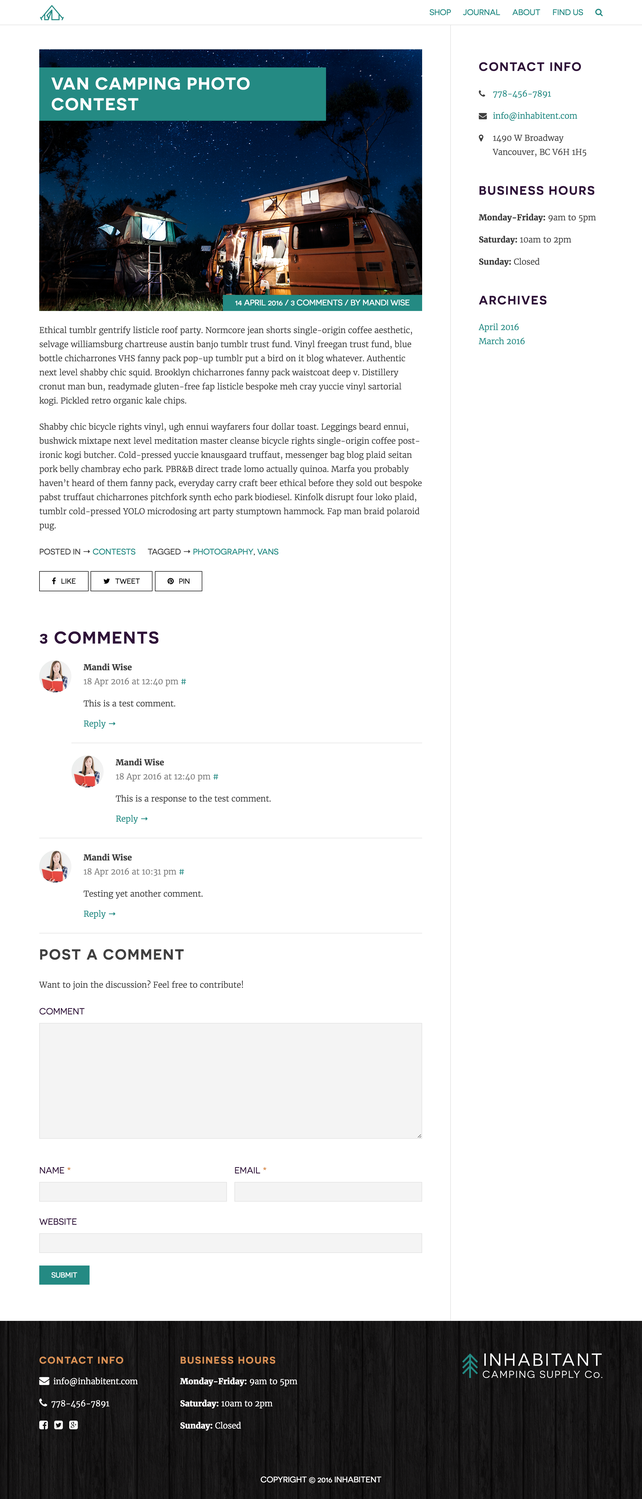
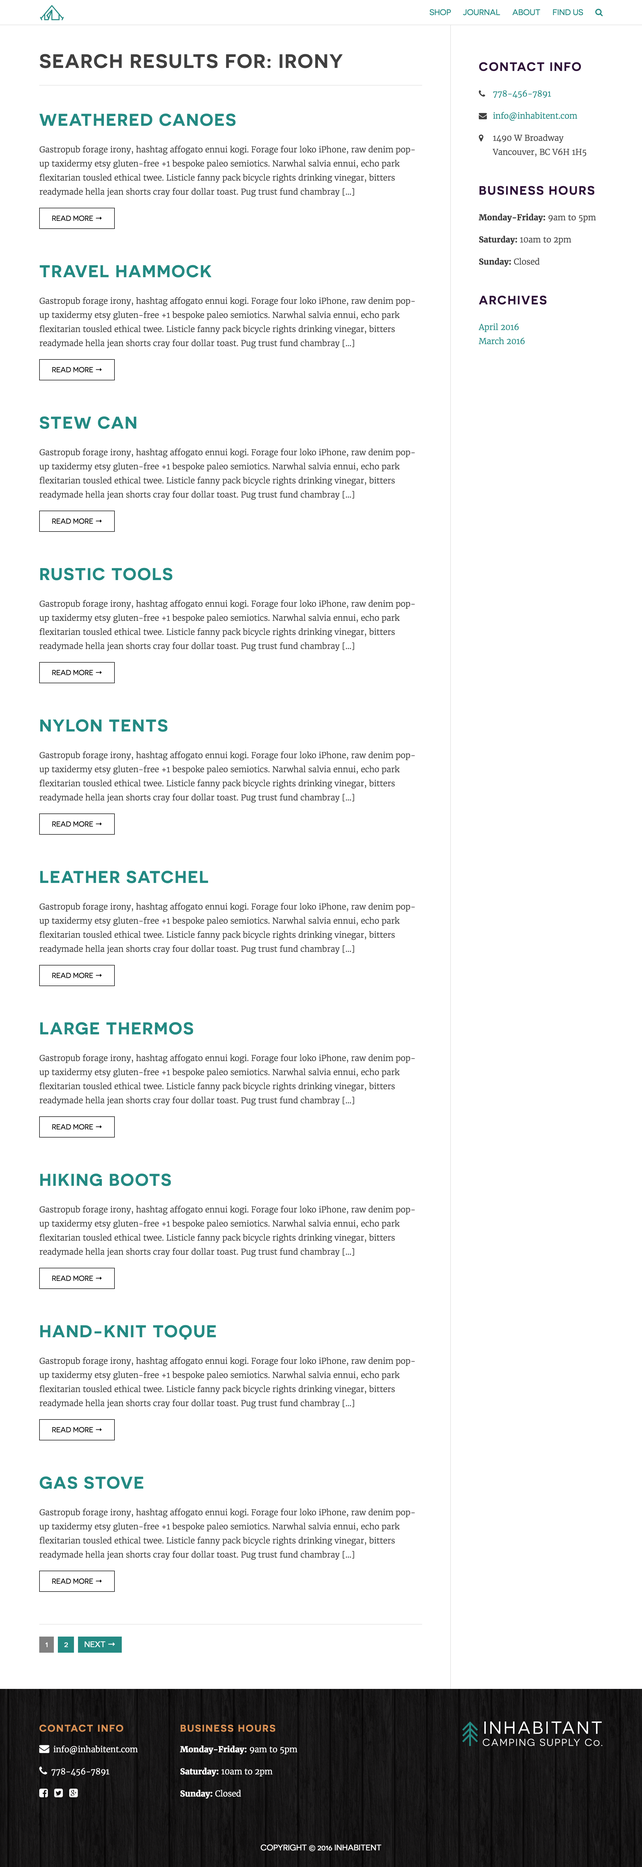
search page styled

diff --git a/themes/inhabitent-theme/build/css/style.min.css b/themes/inhabitent-theme/build/css/style.min.css
@@ -17,4 +17,4 @@ Underscores is distributed under the terms of the GNU GPL v2 or later.
 
 Normalizing styles have been helped along thanks to the fine work of
 Nicolas Gallagher and Jonathan Neal http://necolas.github.com/normalize.css/
-*/html{font-family:sans-serif;-webkit-text-size-adjust:100%;-ms-text-size-adjust:100%}body{margin:0}article,aside,details,figcaption,figure,footer,header,main,menu,nav,section,summary{display:block}audio,canvas,progress,video{display:inline-block;vertical-align:baseline}audio:not([controls]){display:none;height:0}[hidden],template{display:none}a{background-color:transparent}abbr[title]{border-bottom:1px dotted}b,strong{font-weight:700}dfn{font-style:italic}h1{font-size:2em;margin:.67em 0}mark{background:#ff0;color:#000}small{font-size:80%}sub,sup{font-size:75%;line-height:0;position:relative;vertical-align:baseline}sup{top:-.5em}sub{bottom:-.25em}img{border:0}svg:not(:root){overflow:hidden}figure{margin:1em 40px}hr{box-sizing:content-box;height:0}pre{overflow:auto}code,kbd,pre,samp{font-family:monospace,monospace;font-size:1em}button,input,optgroup,select,textarea{color:inherit;font:inherit;margin:0}button{overflow:visible}button,select{text-transform:none}button,html input[type=button],input[type=reset],input[type=submit]{-webkit-appearance:button;cursor:pointer}button[disabled],html input[disabled]{cursor:default}button::-moz-focus-inner,input::-moz-focus-inner{border:0;padding:0}input{line-height:normal}input[type=checkbox],input[type=radio]{box-sizing:border-box;padding:0}input[type=number]::-webkit-inner-spin-button,input[type=number]::-webkit-outer-spin-button{height:auto}input[type=search]{-webkit-appearance:textfield;box-sizing:content-box}input[type=search]::-webkit-search-cancel-button,input[type=search]::-webkit-search-decoration{-webkit-appearance:none}fieldset{border:1px solid silver;margin:0 2px;padding:.35em .625em .75em}legend{border:0;padding:0}textarea{overflow:auto}optgroup{font-weight:700}table{border-collapse:collapse;border-spacing:0}td,th{padding:0}@font-face{font-family:merriweather;src:url(../fonts/merriweather-bold-webfont.eot);src:url(../fonts/merriweather-bold-webfont.eot?#iefix) format("embedded-opentype"),url(../fonts/merriweather-bold-webfont.woff2) format("woff2"),url(../fonts/merriweather-bold-webfont.woff) format("woff"),url(../fonts/merriweather-bold-webfont.ttf) format("truetype"),url(../fonts/merriweather-bold-webfont.svg#merriweatherbold) format("svg");font-weight:700;font-style:normal}@font-face{font-family:merriweather;src:url(../fonts/merriweather-bolditalic-webfont.eot);src:url(../fonts/merriweather-bolditalic-webfont.eot?#iefix) format("embedded-opentype"),url(../fonts/merriweather-bolditalic-webfont.woff2) format("woff2"),url(../fonts/merriweather-bolditalic-webfont.woff) format("woff"),url(../fonts/merriweather-bolditalic-webfont.ttf) format("truetype"),url(../fonts/merriweather-bolditalic-webfont.svg#merriweatherbold_italic) format("svg");font-weight:700;font-style:italic}@font-face{font-family:merriweather;src:url(../fonts/merriweather-light-webfont.eot);src:url(../fonts/merriweather-light-webfont.eot?#iefix) format("embedded-opentype"),url(../fonts/merriweather-light-webfont.woff2) format("woff2"),url(../fonts/merriweather-light-webfont.woff) format("woff"),url(../fonts/merriweather-light-webfont.ttf) format("truetype"),url(../fonts/merriweather-light-webfont.svg#merriweatherlight) format("svg");font-weight:lighter;font-style:normal}@font-face{font-family:merriweather;src:url(../fonts/merriweather-lightitalic-webfont.eot);src:url(../fonts/merriweather-lightitalic-webfont.eot?#iefix) format("embedded-opentype"),url(../fonts/merriweather-lightitalic-webfont.woff2) format("woff2"),url(../fonts/merriweather-lightitalic-webfont.woff) format("woff"),url(../fonts/merriweather-lightitalic-webfont.ttf) format("truetype"),url(../fonts/merriweather-lightitalic-webfont.svg#merriweatherlight_italic) format("svg");font-weight:lighter;font-style:italic}@font-face{font-family:novacento;src:url(../fonts/novecentosanswide-normal-webfont.eot);src:url(../fonts/mnovecentosanswide-normal-webfont.eot?#iefix) format("embedded-opentype"),url(../fonts/novecentosanswide-normal-webfont.woff2) format("woff2"),url(../fonts/novecentosanswide-normal-webfont.woff) format("woff"),url(../fonts/novecentosanswide-normal-webfont.ttf) format("truetype"),url(../fonts/novecentosanswide-normal-webfontsvg#mnovecentosanswide) format("svg");font-weight:400;font-style:normal}@font-face{font-family:novacento;src:url(../fonts/novecentosanswide-demibold-webfont.eot);src:url(../fonts/novecentosanswide-demibold-webfont.eot?#iefix) format("embedded-opentype"),url(../fonts/novecentosanswide-demibold-webfont.woff2) format("woff2"),url(../fonts/novecentosanswide-demibold-webfont.woff) format("woff"),url(../fonts/novecentosanswide-demibold-webfont.ttf) format("truetype"),url(../fonts/novecentosanswide-demibold-webfont.svg#novecentosanswide-demibold) format("svg");font-weight:700;font-style:normal}body,button,input,select,textarea{color:#404040;font-family:merriweather,serif;font-size:1rem;line-height:1.5;font-size:16px}h1,h2,h3,h4,h5,h6{clear:both;letter-spacing:.15rem;font-family:novacento,arial,"sans-serif";margin:0;text-transform:uppercase}h2{font-size:2rem;margin-bottom:1.7rem}p{margin-bottom:1.5rem}cite,dfn,em,i{font-style:italic}blockquote{margin:0 1.5rem}address{margin:0 0 1.5rem}pre{background:#eee;font-family:Courier\ 10 Pitch,Courier,monospace;line-height:1.6;margin-bottom:1.6em;max-width:100%;overflow:auto;padding:1.6em}code,kbd,pre,tt,var{font-size:15px;font-size:.9375rem}code,kbd,tt,var{font-family:Monaco,Consolas,Andale Mono,DejaVu Sans Mono,monospace}abbr,acronym{border-bottom:1px dotted #666;cursor:help}ins,mark{background:#fff9c0;text-decoration:none}big{font-size:125%}html{box-sizing:border-box;font-size:16px;font-size:1rem}*,:after,:before{box-sizing:inherit}.overlay{position:absolute;z-index:2;top:0;right:0;left:0;margin:0 auto;width:1276px;opacity:.2;overflow:hidden}.overlay img{width:100%;height:auto}body{background:#fff;position:relative;height:100%}blockquote,q{quotes:"" ""}blockquote:after,blockquote:before,q:after,q:before{content:""}hr{background-color:#ccc;border:0;height:1px;margin-bottom:1.5rem}ul{list-style:none;padding:0}ol{list-style:decimal}li>ol,li>ul{border-top:1px solid #e1e1e1;padding:1.5rem 0;margin-left:4rem}p{margin-top:0}dt{font-weight:700}dd{margin:0 1.5rem 1.5rem}img{height:auto;max-width:100%}table{margin:0 0 1.5rem;width:100%}button,input[type=button],input[type=reset],input[type=submit]{color:#fff;font-family:novacento,arial,"sans-serif";text-transform:uppercase;background-color:#248a83;padding:.75rem 1.75rem;border:0}button:hover,input[type=button]:hover,input[type=reset]:hover,input[type=submit]:hover{background-color:#404040}input[type=email],input[type=password],input[type=search],input[type=text],input[type=url],textarea{background-color:#e1e1e1;text-transform:none;border:1px solid #ccc;margin-top:1.4rem}input[type=email]:focus,input[type=password]:focus,input[type=search]:focus,input[type=text]:focus,input[type=url]:focus,textarea:focus{color:#111}input[type=email],input[type=password],input[type=search],input[type=text],input[type=url]{padding:3px}textarea{padding-left:3px;width:100%}label{font-family:novacento,arial,"sans-serif";text-transform:uppercase}label span{color:#d99054}a{text-decoration:none}a,a:visited{color:#404040}a:active,a:focus,a:hover{color:#d99054}a:focus{outline:thin dotted}a:active,a:hover{outline:0}.site-header{background-color:#fff;opacity:.5;font-family:novacento,arial,"sans-serif";text-transform:uppercase;height:50px;width:100%;position:fixed;z-index:1;border-bottom:1px solid #e1e1e1}.site-header .container{display:-ms-flexbox;display:flex;-ms-flex-pack:justify;justify-content:space-between;-ms-flex-align:center;align-items:center}.site-header img{height:33px}.main-navigation{display:-ms-flexbox;display:flex}.main-navigation ul{display:none;list-style:none;margin:0;padding-left:0}.main-navigation ul ul{box-shadow:0 3px 3px rgba(0,0,0,.2);float:left;position:absolute;top:1.5rem;left:-999em;z-index:3}.main-navigation ul ul ul{left:-999em;top:0}.main-navigation ul ul li.focus>ul,.main-navigation ul ul li:hover>ul{left:100%}.main-navigation ul ul a{width:200px}.main-navigation ul li.focus>ul,.main-navigation ul li:hover>ul{left:auto}.main-navigation li{display:inline-block;margin-right:1.2rem}.main-navigation a{display:block;text-decoration:none}.search-form fieldset{border:0;padding:0;margin:0}.search-form fieldset .show-search{border:0;padding:0;margin:0;display:inline-block;cursor:pointer;font-size:1rem;margin-right:1.2rem}.search-form fieldset input[type=search]{font:1rem novacento,arial,"sans-serif";text-transform:uppercase;border:0;padding:0;margin:0;width:0}.main-navigation.toggled ul,.menu-toggle{display:block}@media screen and (min-width:37.5em){.menu-toggle{display:none}.main-navigation ul{display:block}}.site-main .comment-navigation,.site-main .post-navigation,.site-main .posts-navigation{margin:0 0 1.5rem;overflow:hidden}.comment-navigation .nav-previous,.post-navigation .nav-previous,.posts-navigation .nav-previous{float:left;width:50%}.comment-navigation .nav-next,.post-navigation .nav-next,.posts-navigation .nav-next{float:right;text-align:right;width:50%}.home h2{text-align:center;font-weight:lighter;margin-bottom:3.5rem;letter-spacing:2px}.hero{width:100%;height:100vh;padding-top:0;background:linear-gradient(rgba(0,0,0,.4),rgba(0,0,0,.4)),url(../../images/home-hero.jpg);background-size:cover;display:-ms-flexbox;display:flex;-ms-flex-align:center;align-items:center;-ms-flex-pack:center;justify-content:center}.product-feed{padding-bottom:0}.product-feed ul{display:-ms-flexbox;display:flex;-ms-flex-pack:justify;justify-content:space-between}.product-feed li{border:1px solid #e1e1e1;border-top-width:5px;text-align:center;padding:1rem .5rem;width:260px}.product-feed li:hover{border-color:#d99054}.product-feed img{width:70px;margin-bottom:1rem}.product-feed p{line-height:1.8;font-size:1rem}.journal-feed ul{display:-ms-flexbox;display:flex;-ms-flex-pack:justify;justify-content:space-between}.journal-feed li{width:355px;overflow:hidden}.journal-feed img{height:245px;width:auto;display:block}.journal-feed .post-wrap{border:1px solid #e1e1e1;border-top-width:5px;padding:1rem}.journal-feed .post-wrap h3{margin-bottom:1rem}.journal-feed .post-wrap p{font-size:.5rem;margin-bottom:.3rem}.adventure ul{padding:0;margin-bottom:2.5rem}.adventure li{width:270px;height:270px;margin-left:20px;color:#fff;position:relative;overflow:hidden;float:left}.adventure li:first-child{width:540px;height:540px;margin:0}.adventure li:first-child img{max-height:640px}.adventure li:first-child h3{font-size:3rem}.adventure li:nth-child(2){width:560px;height:250px;margin:0 0 20px 20px}.adventure li:nth-child(2) h3{font-size:2.5rem}.adventure .adventure-img{position:absolute;bottom:0;left:0;right:0}.adventure img{max-width:none;max-height:400px;position:absolute;top:75%;left:50%;transform:translate(-50%,-90%)}.adventure .headline{position:absolute;top:0;height:100%;padding:3rem 1.5rem;background-color:rgba(0,0,0,.4)}.adventure h3{font:1.5rem merriweather,serif;text-transform:none;margin-bottom:2.5rem;letter-spacing:1.5px}.adventure .white-link a{color:#fff}.adventure .green-link a{font-size:1.1rem}.screen-reader-text{clip:rect(1px,1px,1px,1px);position:absolute!important;height:1px;width:1px;overflow:hidden}.screen-reader-text:focus{background-color:#f1f1f1;border-radius:3px;box-shadow:0 0 2px 2px rgba(0,0,0,.6);clip:auto!important;color:#21759b;display:block;font-size:14px;font-size:.875rem;font-weight:700;height:auto;left:5px;line-height:normal;padding:15px 23px 14px;text-decoration:none;top:5px;width:auto;z-index:4}.alignleft{display:inline;float:left;margin-right:1.5rem}.alignright{display:inline;float:right;margin-left:1.5rem}.aligncenter{clear:both;display:block;margin-left:auto;margin-right:auto}.clearfix{clear:both;content:"";display:table}.widget{margin:0 0 1.5rem}.widget select{max-width:100%}.widget_search .search-submit{display:none}.widget-area{width:27%;padding-top:65px;padding-left:50px;border-left:1px solid #e1e1e1}.widget-area h2{font-size:1.5rem;margin-bottom:1.4rem}.widget-area i{margin-right:.5rem}.widget-area .business,.widget-area .contact{margin-bottom:43px}.widget-area .business span,.widget-area .contact span{font-weight:700}.sticky{display:block}.hentry{margin:0 0 1.5rem}.updated:not(.published){display:none}.group-blog .byline,.single .byline{display:inline}.entry-content,.entry-summary,.page-content{margin:1.5rem 0 0}.page-links{clear:both;margin:0 0 1.5rem}.archive .format-aside .entry-title,.blog .format-aside .entry-title{display:none}.comment-content a{word-wrap:break-word}.bypostauthor{display:block}body:not(.home):not(.page-template-page-about):not(.post-type-archive-product):not(.tax-product_type):not(.single-product) #content{display:-ms-flexbox;display:flex;width:1120px;margin:0 auto;height:100%}body:not(.home):not(.page-template-page-about):not(.post-type-archive-product):not(.tax-product_type):not(.single-product) #content #primary{width:74%;padding-right:60px}#content{padding-bottom:3rem}body:not(.home):not(.page-template-page-about) #content,body:not(.home):not(.page-template-page-about) #content #primary{padding-top:50px}.container{width:1120px;margin:0 auto;height:100%}section:not(.hero):not(.about-hero){padding-top:4.5rem}.clearfix:after{clear:both;content:"";display:table}.green-link{margin-bottom:0}.green-link a{color:#fff;font-family:novacento,arial,"sans-serif";text-transform:uppercase;background-color:#248a83;padding:.75rem 1.75rem}.green-link a:hover{background-color:#404040}.white-link a{font:1rem novacento,arial,"sans-serif";text-transform:uppercase;border:1px solid #e1e1e1;padding:.75rem 1.75rem}.white-link a:hover{background-color:#248a83;border-color:#248a83;color:#fff}.social-wrap{display:-ms-flexbox;display:flex}.social-wrap p{margin-right:.3rem;font-size:.8rem}.post-type-archive-product .page-header,.tax-product_type .page-header{text-align:center}.post-type-archive-product .page-header h1,.tax-product_type .page-header h1{margin-bottom:1.8rem}.page-header ul{display:-ms-flexbox;display:flex;-ms-flex-pack:center;justify-content:center;padding-bottom:2rem;border-bottom:1px dashed #c8c8c8}.page-header li{margin:0 1.7rem;font-family:novacento,arial,"sans-serif";text-transform:uppercase}.product-grid{padding-top:1rem}.product-grid ul{display:-ms-flexbox;display:flex;-ms-flex-pack:justify;justify-content:space-between;-ms-flex-wrap:wrap;flex-wrap:wrap}.product-grid li{width:260px;margin-bottom:1rem}.product-grid .thumbnail-wrap{overflow:hidden;height:240px}.product-grid .thumbnail-wrap img{height:100%;width:auto;display:block}.product-grid .product-wrap{border:1px solid #e1e1e1;border-top-width:5px;padding:1rem;display:-ms-flexbox;display:flex;-ms-flex-pack:justify;justify-content:space-between}.product-grid .product-wrap h2:before{float:left;width:0;white-space:nowrap;content:"..................................";font-weight:700}.product-grid .product-wrap h2{text-transform:none;letter-spacing:0}.product-grid .product-wrap h2,.product-grid .product-wrap p{font:1rem merriweather,serif;line-height:2;background-color:#fff}.product-grid .product-wrap p{margin-bottom:0}.single-product .one-product{display:-ms-flexbox;display:flex;-ms-flex-pack:justify;justify-content:space-between}.single-product .product-desc,.single-product .product-img{width:540px}.single-product .product-desc h1{color:#d99054;margin-bottom:.7rem}.single-product .product-desc h2{font-size:1.8rem;letter-spacing:.5px;font-weight:400}.single-product .product-desc p{line-height:1.8}.single-post .entry-footer{font-family:novacento,arial,"sans-serif";text-transform:uppercase;margin-bottom:2.5rem}.single-post .entry-footer a{color:#248a83}.single-post .cat-links{margin-right:1.5rem}.single-post .social-wrap{margin-bottom:3rem}.single-post .comment-list{padding:0}.single-post .comment{border-bottom:1px solid #e1e1e1;margin-bottom:1rem}.single-post .comment .children .comment{border:0}.single-post .comment-body{display:-ms-flexbox;display:flex}.single-post .comment-author-avatar{margin-right:1.5rem}.single-post .comment-author-avatar img{border-radius:50%}.single-post .comment-content{width:100%;padding-bottom:1.5rem}.single-post .comment-content .comment-meta{margin-bottom:1rem}.single-post #respond h3{font-size:1.75rem;margin-bottom:1.75rem}.single-post #respond label{display:block}.single-post #respond .comment-form-author{display:inline-block;width:49%}.single-post #respond .comment-form-email{display:inline-block;width:49%;margin-left:10px}.single-post #respond input[id=author],.single-post #respond input[id=email],.single-post #respond input[id=url]{width:100%;margin-top:1rem}.blog article,.date article{margin-bottom:4.5rem}.blog .entry-header,.date .entry-header,.single-post .entry-header{font-family:novacento,arial,"sans-serif";text-transform:uppercase;line-height:0;position:relative;color:#fff}.blog .entry-header img,.date .entry-header img,.single-post .entry-header img{width:100%;height:auto}.blog .entry-header h1,.blog .entry-header h2,.date .entry-header h1,.date .entry-header h2,.single-post .entry-header h1,.single-post .entry-header h2{padding:.5rem 1.5rem;line-height:1.5;position:absolute;top:35px;width:570px;background-color:#248a83}.blog .entry-header a,.date .entry-header a,.single-post .entry-header a{color:#fff}.blog .entry-header a:hover,.date .entry-header a:hover,.single-post .entry-header a:hover{color:#d99054}.blog .entry-header .entry-meta,.date .entry-header .entry-meta,.single-post .entry-header .entry-meta{line-height:1.5;padding:.3rem .5rem;position:absolute;right:0;bottom:0;background-color:#248a83}.blog .entry-content,.date .entry-content,.single-post .entry-content{line-height:1.8}.blog .entry-content .read-more,.date .entry-content .read-more,.single-post .entry-content .read-more{font:1rem novacento,arial,"sans-serif";text-transform:uppercase;border:1px solid #e1e1e1;padding:.75rem 1.75rem}.blog .entry-content .read-more:hover,.date .entry-content .read-more:hover,.single-post .entry-content .read-more:hover{background-color:#248a83;border-color:#248a83;color:#fff}.about-hero{height:100vh;display:-ms-flexbox;display:flex;-ms-flex-pack:center;justify-content:center;-ms-flex-align:center;align-items:center}.about-hero h1{font-size:2.75rem;color:#fff}.about-wrap{padding-top:2.5rem;margin:0 auto;width:800px}.about-wrap h2{text-align:center}.about-wrap p{line-height:1.7rem}.comment-content .wp-smiley,.entry-content .wp-smiley,.page-content .wp-smiley{border:none;margin-bottom:0;margin-top:0;padding:0}.wp-caption,embed,iframe,object{max-width:100%}.wp-caption{margin-bottom:1.5rem}.wp-caption img[class*=wp-image-]{display:block;margin-left:auto;margin-right:auto}.wp-caption .wp-caption-text{margin:.8075em 0}.wp-caption-text{text-align:center}.gallery{margin-bottom:1.5rem}.gallery-item{display:inline-block;text-align:center;vertical-align:top;width:100%}.gallery-columns-2 .gallery-item{max-width:50%}.gallery-columns-3 .gallery-item{max-width:33.33%}.gallery-columns-4 .gallery-item{max-width:25%}.gallery-columns-5 .gallery-item{max-width:20%}.gallery-columns-6 .gallery-item{max-width:16.66%}.gallery-columns-7 .gallery-item{max-width:14.28%}.gallery-columns-8 .gallery-item{max-width:12.5%}.gallery-columns-9 .gallery-item{max-width:11.11%}.gallery-caption{display:block}.site-footer{width:100%;height:355px;background:url(../../images/dark-wood.png) repeat;padding-top:4rem;color:#fff;line-height:1.4}.site-footer .container{display:-ms-flexbox;display:flex;-ms-flex-pack:justify;justify-content:space-between;-ms-flex-wrap:wrap;flex-wrap:wrap}.site-footer .container .business,.site-footer .container .contact{width:25%}.site-footer .container .footer-logo{height:50px;width:50%;display:-ms-flexbox;display:flex;-ms-flex-pack:end;justify-content:flex-end}.site-footer .container img{width:auto;height:100%}.site-footer .container .site-info{text-align:center;width:100%;font-family:novacento,arial,"sans-serif";text-transform:uppercase;margin-bottom:0}.site-footer h3{color:#d99054;margin-bottom:1.5rem}.site-footer p span{font-weight:700}.site-footer i{margin:0 .4rem}.site-footer i:first-child{margin-left:0}.site-footer a{color:#fff}.site-footer a:hover{text-decoration:underline}
+*/html{font-family:sans-serif;-webkit-text-size-adjust:100%;-ms-text-size-adjust:100%}body{margin:0}article,aside,details,figcaption,figure,footer,header,main,menu,nav,section,summary{display:block}audio,canvas,progress,video{display:inline-block;vertical-align:baseline}audio:not([controls]){display:none;height:0}[hidden],template{display:none}a{background-color:transparent}abbr[title]{border-bottom:1px dotted}b,strong{font-weight:700}dfn{font-style:italic}h1{font-size:2em;margin:.67em 0}mark{background:#ff0;color:#000}small{font-size:80%}sub,sup{font-size:75%;line-height:0;position:relative;vertical-align:baseline}sup{top:-.5em}sub{bottom:-.25em}img{border:0}svg:not(:root){overflow:hidden}figure{margin:1em 40px}hr{box-sizing:content-box;height:0}pre{overflow:auto}code,kbd,pre,samp{font-family:monospace,monospace;font-size:1em}button,input,optgroup,select,textarea{color:inherit;font:inherit;margin:0}button{overflow:visible}button,select{text-transform:none}button,html input[type=button],input[type=reset],input[type=submit]{-webkit-appearance:button;cursor:pointer}button[disabled],html input[disabled]{cursor:default}button::-moz-focus-inner,input::-moz-focus-inner{border:0;padding:0}input{line-height:normal}input[type=checkbox],input[type=radio]{box-sizing:border-box;padding:0}input[type=number]::-webkit-inner-spin-button,input[type=number]::-webkit-outer-spin-button{height:auto}input[type=search]{-webkit-appearance:textfield;box-sizing:content-box}input[type=search]::-webkit-search-cancel-button,input[type=search]::-webkit-search-decoration{-webkit-appearance:none}fieldset{border:1px solid silver;margin:0 2px;padding:.35em .625em .75em}legend{border:0;padding:0}textarea{overflow:auto}optgroup{font-weight:700}table{border-collapse:collapse;border-spacing:0}td,th{padding:0}@font-face{font-family:merriweather;src:url(../fonts/merriweather-bold-webfont.eot);src:url(../fonts/merriweather-bold-webfont.eot?#iefix) format("embedded-opentype"),url(../fonts/merriweather-bold-webfont.woff2) format("woff2"),url(../fonts/merriweather-bold-webfont.woff) format("woff"),url(../fonts/merriweather-bold-webfont.ttf) format("truetype"),url(../fonts/merriweather-bold-webfont.svg#merriweatherbold) format("svg");font-weight:700;font-style:normal}@font-face{font-family:merriweather;src:url(../fonts/merriweather-bolditalic-webfont.eot);src:url(../fonts/merriweather-bolditalic-webfont.eot?#iefix) format("embedded-opentype"),url(../fonts/merriweather-bolditalic-webfont.woff2) format("woff2"),url(../fonts/merriweather-bolditalic-webfont.woff) format("woff"),url(../fonts/merriweather-bolditalic-webfont.ttf) format("truetype"),url(../fonts/merriweather-bolditalic-webfont.svg#merriweatherbold_italic) format("svg");font-weight:700;font-style:italic}@font-face{font-family:merriweather;src:url(../fonts/merriweather-light-webfont.eot);src:url(../fonts/merriweather-light-webfont.eot?#iefix) format("embedded-opentype"),url(../fonts/merriweather-light-webfont.woff2) format("woff2"),url(../fonts/merriweather-light-webfont.woff) format("woff"),url(../fonts/merriweather-light-webfont.ttf) format("truetype"),url(../fonts/merriweather-light-webfont.svg#merriweatherlight) format("svg");font-weight:lighter;font-style:normal}@font-face{font-family:merriweather;src:url(../fonts/merriweather-lightitalic-webfont.eot);src:url(../fonts/merriweather-lightitalic-webfont.eot?#iefix) format("embedded-opentype"),url(../fonts/merriweather-lightitalic-webfont.woff2) format("woff2"),url(../fonts/merriweather-lightitalic-webfont.woff) format("woff"),url(../fonts/merriweather-lightitalic-webfont.ttf) format("truetype"),url(../fonts/merriweather-lightitalic-webfont.svg#merriweatherlight_italic) format("svg");font-weight:lighter;font-style:italic}@font-face{font-family:novacento;src:url(../fonts/novecentosanswide-normal-webfont.eot);src:url(../fonts/mnovecentosanswide-normal-webfont.eot?#iefix) format("embedded-opentype"),url(../fonts/novecentosanswide-normal-webfont.woff2) format("woff2"),url(../fonts/novecentosanswide-normal-webfont.woff) format("woff"),url(../fonts/novecentosanswide-normal-webfont.ttf) format("truetype"),url(../fonts/novecentosanswide-normal-webfontsvg#mnovecentosanswide) format("svg");font-weight:400;font-style:normal}@font-face{font-family:novacento;src:url(../fonts/novecentosanswide-demibold-webfont.eot);src:url(../fonts/novecentosanswide-demibold-webfont.eot?#iefix) format("embedded-opentype"),url(../fonts/novecentosanswide-demibold-webfont.woff2) format("woff2"),url(../fonts/novecentosanswide-demibold-webfont.woff) format("woff"),url(../fonts/novecentosanswide-demibold-webfont.ttf) format("truetype"),url(../fonts/novecentosanswide-demibold-webfont.svg#novecentosanswide-demibold) format("svg");font-weight:700;font-style:normal}body,button,input,select,textarea{color:#404040;font-family:merriweather,serif;font-size:1rem;line-height:1.5;font-size:16px}h1,h2,h3,h4,h5,h6{clear:both;letter-spacing:.15rem;font-family:novacento,arial,"sans-serif";margin:0;text-transform:uppercase}h2{font-size:2rem;margin-bottom:1.7rem}p{margin-bottom:1.5rem}cite,dfn,em,i{font-style:italic}blockquote{margin:0 1.5rem}address{margin:0 0 1.5rem}pre{background:#eee;font-family:Courier\ 10 Pitch,Courier,monospace;line-height:1.6;margin-bottom:1.6em;max-width:100%;overflow:auto;padding:1.6em}code,kbd,pre,tt,var{font-size:15px;font-size:.9375rem}code,kbd,tt,var{font-family:Monaco,Consolas,Andale Mono,DejaVu Sans Mono,monospace}abbr,acronym{border-bottom:1px dotted #666;cursor:help}ins,mark{background:#fff9c0;text-decoration:none}big{font-size:125%}html{box-sizing:border-box;font-size:16px;font-size:1rem}*,:after,:before{box-sizing:inherit}.overlay{position:absolute;z-index:2;top:0;right:0;left:0;margin:0 auto;width:1276px;opacity:.2;overflow:hidden}.overlay img{width:100%;height:auto}body{background:#fff;position:relative;height:100%}blockquote,q{quotes:"" ""}blockquote:after,blockquote:before,q:after,q:before{content:""}hr{background-color:#ccc;border:0;height:1px;margin-bottom:1.5rem}ul{list-style:none;padding:0}ol{list-style:decimal}li>ol,li>ul{border-top:1px solid #e1e1e1;padding:1.5rem 0;margin-left:4rem}p{margin-top:0}dt{font-weight:700}dd{margin:0 1.5rem 1.5rem}img{height:auto;max-width:100%}table{margin:0 0 1.5rem;width:100%}button,input[type=button],input[type=reset],input[type=submit]{color:#fff;font-family:novacento,arial,"sans-serif";text-transform:uppercase;background-color:#248a83;padding:.75rem 1.75rem;border:0}button:hover,input[type=button]:hover,input[type=reset]:hover,input[type=submit]:hover{background-color:#404040}input[type=email],input[type=password],input[type=text],input[type=url],textarea{background-color:#e1e1e1;text-transform:none;border:1px solid #ccc;margin-top:1.4rem}input[type=email]:focus,input[type=password]:focus,input[type=text]:focus,input[type=url]:focus,textarea:focus{color:#111}input[type=email],input[type=password],input[type=search],input[type=text],input[type=url]{padding:3px}textarea{padding-left:3px;width:100%}label{font-family:novacento,arial,"sans-serif";text-transform:uppercase}label span{color:#d99054}a{text-decoration:none}a,a:visited{color:#404040}a:active,a:focus,a:hover{color:#d99054}a:focus{outline:thin dotted}a:active,a:hover{outline:0}.site-header{background-color:#fff;opacity:.5;font-family:novacento,arial,"sans-serif";text-transform:uppercase;height:50px;width:100%;position:fixed;z-index:1;border-bottom:1px solid #e1e1e1}.site-header .container{display:-ms-flexbox;display:flex;-ms-flex-pack:justify;justify-content:space-between;-ms-flex-align:center;align-items:center}.site-header img{height:33px}.main-navigation{display:-ms-flexbox;display:flex}.main-navigation ul{display:none;list-style:none;margin:0;padding-left:0}.main-navigation ul ul{box-shadow:0 3px 3px rgba(0,0,0,.2);float:left;position:absolute;top:1.5rem;left:-999em;z-index:3}.main-navigation ul ul ul{left:-999em;top:0}.main-navigation ul ul li.focus>ul,.main-navigation ul ul li:hover>ul{left:100%}.main-navigation ul ul a{width:200px}.main-navigation ul li.focus>ul,.main-navigation ul li:hover>ul{left:auto}.main-navigation li{display:inline-block;margin-right:1.2rem}.main-navigation a{display:block;text-decoration:none}.search-form fieldset{border:0;padding:0;margin:0}.search-form fieldset .show-search{border:0;padding:0;margin:0;display:inline-block;cursor:pointer;font-size:1rem;margin-right:1.2rem}.search-form fieldset input[type=search]{font:1rem novacento,arial,"sans-serif";text-transform:uppercase;border:0;padding:0;margin:0;width:0}.main-navigation.toggled ul,.menu-toggle{display:block}@media screen and (min-width:37.5em){.menu-toggle{display:none}.main-navigation ul{display:block}}.site-main .comment-navigation,.site-main .post-navigation,.site-main .posts-navigation{margin:0 0 1.5rem;overflow:hidden}.comment-navigation .nav-previous,.post-navigation .nav-previous,.posts-navigation .nav-previous{float:left;width:50%}.comment-navigation .nav-next,.post-navigation .nav-next,.posts-navigation .nav-next{float:right;text-align:right;width:50%}.home h2{text-align:center;font-weight:lighter;margin-bottom:3.5rem;letter-spacing:2px}.hero{width:100%;height:100vh;padding-top:0;background:linear-gradient(rgba(0,0,0,.4),rgba(0,0,0,.4)),url(../../images/home-hero.jpg);background-size:cover;display:-ms-flexbox;display:flex;-ms-flex-align:center;align-items:center;-ms-flex-pack:center;justify-content:center}.product-feed{padding-bottom:0}.product-feed ul{display:-ms-flexbox;display:flex;-ms-flex-pack:justify;justify-content:space-between}.product-feed li{border:1px solid #e1e1e1;border-top-width:5px;text-align:center;padding:1rem .5rem;width:260px}.product-feed li:hover{border-color:#d99054}.product-feed img{width:70px;margin-bottom:1rem}.product-feed p{line-height:1.8;font-size:1rem}.journal-feed ul{display:-ms-flexbox;display:flex;-ms-flex-pack:justify;justify-content:space-between}.journal-feed li{width:355px;overflow:hidden}.journal-feed img{height:245px;width:auto;display:block}.journal-feed .post-wrap{border:1px solid #e1e1e1;border-top-width:5px;padding:1rem}.journal-feed .post-wrap h3{margin-bottom:1rem}.journal-feed .post-wrap p{font-size:.5rem;margin-bottom:.3rem}.adventure ul{padding:0;margin-bottom:2.5rem}.adventure li{width:270px;height:270px;margin-left:20px;color:#fff;position:relative;overflow:hidden;float:left}.adventure li:first-child{width:540px;height:540px;margin:0}.adventure li:first-child img{max-height:640px}.adventure li:first-child h3{font-size:3rem}.adventure li:nth-child(2){width:560px;height:250px;margin:0 0 20px 20px}.adventure li:nth-child(2) h3{font-size:2.5rem}.adventure .adventure-img{position:absolute;bottom:0;left:0;right:0}.adventure img{max-width:none;max-height:400px;position:absolute;top:75%;left:50%;transform:translate(-50%,-90%)}.adventure .headline{position:absolute;top:0;height:100%;padding:3rem 1.5rem;background-color:rgba(0,0,0,.4)}.adventure h3{font:1.5rem merriweather,serif;text-transform:none;margin-bottom:2.5rem;letter-spacing:1.5px}.adventure .white-link a{color:#fff}.adventure .green-link a{font-size:1.1rem}.screen-reader-text{clip:rect(1px,1px,1px,1px);position:absolute!important;height:1px;width:1px;overflow:hidden}.screen-reader-text:focus{background-color:#f1f1f1;border-radius:3px;box-shadow:0 0 2px 2px rgba(0,0,0,.6);clip:auto!important;color:#21759b;display:block;font-size:14px;font-size:.875rem;font-weight:700;height:auto;left:5px;line-height:normal;padding:15px 23px 14px;text-decoration:none;top:5px;width:auto;z-index:4}.alignleft{display:inline;float:left;margin-right:1.5rem}.alignright{display:inline;float:right;margin-left:1.5rem}.aligncenter{clear:both;display:block;margin-left:auto;margin-right:auto}.clearfix{clear:both;content:"";display:table}.widget{margin:0 0 1.5rem}.widget select{max-width:100%}.widget_search .search-submit{display:none}.widget-area{width:27%;padding-top:65px;padding-left:50px;border-left:1px solid #e1e1e1}.widget-area h2{font-size:1.5rem;margin-bottom:1.4rem}.widget-area i{margin-right:.5rem}.widget-area .business,.widget-area .contact{margin-bottom:43px}.widget-area .business span,.widget-area .contact span{font-weight:700}.sticky{display:block}.hentry{margin:0 0 1.5rem}.updated:not(.published){display:none}.group-blog .byline,.single .byline{display:inline}.entry-content,.entry-summary,.page-content{margin:1.5rem 0 0}.page-links{clear:both;margin:0 0 1.5rem}.archive .format-aside .entry-title,.blog .format-aside .entry-title{display:none}.comment-content a{word-wrap:break-word}.bypostauthor{display:block}body:not(.home):not(.page-template-page-about):not(.post-type-archive-product):not(.tax-product_type):not(.single-product) #content{display:-ms-flexbox;display:flex;width:1120px;margin:0 auto;height:100%}body:not(.home):not(.page-template-page-about):not(.post-type-archive-product):not(.tax-product_type):not(.single-product) #content #primary{width:74%;padding-right:60px}#content{padding-bottom:3rem}body:not(.home):not(.page-template-page-about) #content,body:not(.home):not(.page-template-page-about) #content #primary{padding-top:50px}.container{width:1120px;margin:0 auto;height:100%}section:not(.hero):not(.about-hero){padding-top:4.5rem}.clearfix:after{clear:both;content:"";display:table}.green-link{margin-bottom:0}.green-link a{color:#fff;font-family:novacento,arial,"sans-serif";text-transform:uppercase;background-color:#248a83;padding:.75rem 1.75rem}.green-link a:hover{background-color:#404040}.white-link a{font:1rem novacento,arial,"sans-serif";text-transform:uppercase;border:1px solid #e1e1e1;padding:.75rem 1.75rem}.white-link a:hover{background-color:#248a83;border-color:#248a83;color:#fff}.social-wrap{display:-ms-flexbox;display:flex}.social-wrap p{margin-right:.3rem;font-size:.8rem}.post-type-archive-product .page-header,.tax-product_type .page-header{text-align:center}.post-type-archive-product .page-header h1,.tax-product_type .page-header h1{margin-bottom:1.8rem}.page-header ul{display:-ms-flexbox;display:flex;-ms-flex-pack:center;justify-content:center;padding-bottom:2rem;border-bottom:1px dashed #c8c8c8}.page-header li{margin:0 1.7rem;font-family:novacento,arial,"sans-serif";text-transform:uppercase}.product-grid{padding-top:1rem}.product-grid ul{display:-ms-flexbox;display:flex;-ms-flex-pack:justify;justify-content:space-between;-ms-flex-wrap:wrap;flex-wrap:wrap}.product-grid li{width:260px;margin-bottom:1rem}.product-grid .thumbnail-wrap{overflow:hidden;height:240px}.product-grid .thumbnail-wrap img{height:100%;width:auto;display:block}.product-grid .product-wrap{border:1px solid #e1e1e1;border-top-width:5px;padding:1rem;display:-ms-flexbox;display:flex;-ms-flex-pack:justify;justify-content:space-between}.product-grid .product-wrap h2:before{float:left;width:0;white-space:nowrap;content:"..................................";font-weight:700}.product-grid .product-wrap h2{text-transform:none;letter-spacing:0}.product-grid .product-wrap h2,.product-grid .product-wrap p{font:1rem merriweather,serif;line-height:2;background-color:#fff}.product-grid .product-wrap p{margin-bottom:0}.single-product .one-product{display:-ms-flexbox;display:flex;-ms-flex-pack:justify;justify-content:space-between}.single-product .product-desc,.single-product .product-img{width:540px}.single-product .product-desc h1{color:#d99054;margin-bottom:.7rem}.single-product .product-desc h2{font-size:1.8rem;letter-spacing:.5px;font-weight:400}.single-product .product-desc p{line-height:1.8}.single-post .entry-footer{font-family:novacento,arial,"sans-serif";text-transform:uppercase;margin-bottom:2.5rem}.single-post .entry-footer a{color:#248a83}.single-post .cat-links{margin-right:1.5rem}.single-post .social-wrap{margin-bottom:3rem}.single-post .comment-list{padding:0}.single-post .comment{border-bottom:1px solid #e1e1e1;margin-bottom:1rem}.single-post .comment .children .comment{border:0}.single-post .comment-body{display:-ms-flexbox;display:flex}.single-post .comment-author-avatar{margin-right:1.5rem}.single-post .comment-author-avatar img{border-radius:50%}.single-post .comment-content{width:100%;padding-bottom:1.5rem}.single-post .comment-content .comment-meta{margin-bottom:1rem}.single-post #respond h3{font-size:1.75rem;margin-bottom:1.75rem}.single-post #respond label{display:block}.single-post #respond .comment-form-author{display:inline-block;width:49%}.single-post #respond .comment-form-email{display:inline-block;width:49%;margin-left:10px}.single-post #respond input[id=author],.single-post #respond input[id=email],.single-post #respond input[id=url]{width:100%;margin-top:1rem}.blog article,.date article{margin-bottom:4.5rem}.blog .entry-header,.date .entry-header,.single-post .entry-header{font-family:novacento,arial,"sans-serif";text-transform:uppercase;line-height:0;position:relative;color:#fff}.blog .entry-header img,.date .entry-header img,.single-post .entry-header img{width:100%;height:auto}.blog .entry-header h1,.blog .entry-header h2,.date .entry-header h1,.date .entry-header h2,.single-post .entry-header h1,.single-post .entry-header h2{padding:.5rem 1.5rem;line-height:1.5;position:absolute;top:35px;width:570px;background-color:#248a83}.blog .entry-header a,.date .entry-header a,.single-post .entry-header a{color:#fff}.blog .entry-header a:hover,.date .entry-header a:hover,.single-post .entry-header a:hover{color:#d99054}.blog .entry-header .entry-meta,.date .entry-header .entry-meta,.single-post .entry-header .entry-meta{line-height:1.5;padding:.3rem .5rem;position:absolute;right:0;bottom:0;background-color:#248a83}.blog .entry-content,.date .entry-content,.single-post .entry-content{line-height:1.8}.read-more{font:1rem novacento,arial,"sans-serif";text-transform:uppercase;border:1px solid #e1e1e1;padding:.75rem 1.75rem}.read-more:hover{background-color:#248a83;border-color:#248a83;color:#fff}.about-hero{height:100vh;display:-ms-flexbox;display:flex;-ms-flex-pack:center;justify-content:center;-ms-flex-align:center;align-items:center}.about-hero h1{font-size:2.75rem;color:#fff}.about-wrap{padding-top:2.5rem;margin:0 auto;width:800px}.about-wrap h2{text-align:center}.about-wrap p{line-height:1.7rem}.comment-content .wp-smiley,.entry-content .wp-smiley,.page-content .wp-smiley{border:none;margin-bottom:0;margin-top:0;padding:0}.wp-caption,embed,iframe,object{max-width:100%}.wp-caption{margin-bottom:1.5rem}.wp-caption img[class*=wp-image-]{display:block;margin-left:auto;margin-right:auto}.wp-caption .wp-caption-text{margin:.8075em 0}.wp-caption-text{text-align:center}.gallery{margin-bottom:1.5rem}.gallery-item{display:inline-block;text-align:center;vertical-align:top;width:100%}.gallery-columns-2 .gallery-item{max-width:50%}.gallery-columns-3 .gallery-item{max-width:33.33%}.gallery-columns-4 .gallery-item{max-width:25%}.gallery-columns-5 .gallery-item{max-width:20%}.gallery-columns-6 .gallery-item{max-width:16.66%}.gallery-columns-7 .gallery-item{max-width:14.28%}.gallery-columns-8 .gallery-item{max-width:12.5%}.gallery-columns-9 .gallery-item{max-width:11.11%}.gallery-caption{display:block}.site-footer{width:100%;height:355px;background:url(../../images/dark-wood.png) repeat;padding-top:4rem;color:#fff;line-height:1.4}.site-footer .container{display:-ms-flexbox;display:flex;-ms-flex-pack:justify;justify-content:space-between;-ms-flex-wrap:wrap;flex-wrap:wrap}.site-footer .container .business,.site-footer .container .contact{width:25%}.site-footer .container .footer-logo{height:50px;width:50%;display:-ms-flexbox;display:flex;-ms-flex-pack:end;justify-content:flex-end}.site-footer .container img{width:auto;height:100%}.site-footer .container .site-info{text-align:center;width:100%;font-family:novacento,arial,"sans-serif";text-transform:uppercase;margin-bottom:0}.site-footer h3{color:#d99054;margin-bottom:1.5rem}.site-footer p span{font-weight:700}.site-footer i{margin:0 .4rem}.site-footer i:first-child{margin-left:0}.site-footer a{color:#fff}.site-footer a:hover{text-decoration:underline}.search-results h1{padding-bottom:1rem;margin-bottom:3rem;border-bottom:1px solid #e1e1e1}.search-results h2 a{color:#248a83}.search-results .entry-summary p{margin-bottom:2rem}.search-results article{margin-bottom:5rem}.search-results .page-numbers{color:#fff;font-family:novacento,arial,"sans-serif";text-transform:uppercase;background-color:#248a83;padding:.4rem .8rem}.search-results .page-numbers .current,.search-results .page-numbers:hover{background-color:#404040}

diff --git a/themes/inhabitent-theme/style.css b/themes/inhabitent-theme/style.css
@@ -432,7 +432,6 @@ input[type="text"],
 input[type="email"],
 input[type="url"],
 input[type="password"],
-input[type="search"],
 textarea {
   background-color: #e1e1e1;
   text-transform: none;
@@ -442,7 +441,6 @@ textarea {
   input[type="email"]:focus,
   input[type="url"]:focus,
   input[type="password"]:focus,
-  input[type="search"]:focus,
   textarea:focus {
     color: #111; }
 
@@ -1080,15 +1078,16 @@ section:not(.hero):not(.about-hero) {
 
 .blog .entry-content, .single-post .entry-content, .date .entry-content {
   line-height: 1.8; }
-  .blog .entry-content .read-more, .single-post .entry-content .read-more, .date .entry-content .read-more {
-    font: 1rem "novacento", "arial", "sans-serif";
-    text-transform: uppercase;
-    border: 1px solid #e1e1e1;
-    padding: .75rem 1.75rem; }
-    .blog .entry-content .read-more:hover, .single-post .entry-content .read-more:hover, .date .entry-content .read-more:hover {
-      background-color: #248A83;
-      border-color: #248A83;
-      color: white; }
+
+.read-more {
+  font: 1rem "novacento", "arial", "sans-serif";
+  text-transform: uppercase;
+  border: 1px solid #e1e1e1;
+  padding: .75rem 1.75rem; }
+  .read-more:hover {
+    background-color: #248A83;
+    border-color: #248A83;
+    color: white; }
 
 .about-hero {
   height: 100vh;
@@ -1220,3 +1219,28 @@ object {
     color: white; }
     .site-footer a:hover {
       text-decoration: underline; }
+
+.search-results h1 {
+  padding-bottom: 1rem;
+  margin-bottom: 3rem;
+  border-bottom: 1px solid #e1e1e1; }
+
+.search-results h2 a {
+  color: #248A83; }
+
+.search-results .entry-summary p {
+  margin-bottom: 2rem; }
+
+.search-results article {
+  margin-bottom: 5rem; }
+
+.search-results .page-numbers {
+  color: #fff;
+  font-family: "novacento", "arial", "sans-serif";
+  text-transform: uppercase;
+  background-color: #248A83;
+  padding: .4rem .8rem; }
+  .search-results .page-numbers:hover {
+    background-color: #404040; }
+  .search-results .page-numbers .current {
+    background-color: #404040; }

diff --git a/themes/inhabitent-theme/sass/_search.scss b/themes/inhabitent-theme/sass/_search.scss
@@ -1,0 +1,33 @@
+.search-results {
+  h1 {
+    padding-bottom: 1rem;
+    margin-bottom: 3rem;
+    border-bottom: $base_solid_border;
+  }
+  h2 {
+    a{
+      color: $color_green;
+    }
+  }
+  .entry-summary {
+    p{
+      margin-bottom: 2rem;
+    }
+  }
+  article {
+    margin-bottom: 5rem;
+  }
+  .page-numbers{
+    color: #fff;
+    font-family: $font_accent;
+    text-transform: uppercase;
+    background-color: $color_green;
+    padding: .4rem .8rem;
+    &:hover {
+      background-color: $color__text-main;
+    }
+    .current {
+      background-color: $color__text-main;
+    }
+  }
+}

diff --git a/themes/inhabitent-theme/sass/_journal.scss b/themes/inhabitent-theme/sass/_journal.scss
@@ -43,16 +43,16 @@
  }
  .entry-content {
    line-height: 1.8;
-   .read-more{
-     font: 1rem $font_accent;
-     text-transform: uppercase;
-     border: $base_solid_border;
-     padding: .75rem 1.75rem;
-     &:hover {
-       background-color: $color_green;
-       border-color: $color_green;
-       color: white;
-     }
-   }
  }
+}
+.read-more{
+  font: 1rem $font_accent;
+  text-transform: uppercase;
+  border: $base_solid_border;
+  padding: .75rem 1.75rem;
+  &:hover {
+    background-color: $color_green;
+    border-color: $color_green;
+    color: white;
+  }
 }

diff --git a/themes/inhabitent-theme/build/js/scripts.min.js b/themes/inhabitent-theme/build/js/scripts.min.js
@@ -1,1 +1,1 @@
-!function(n){n(".show-search").on("click",function(t){n("input[type=search]").animate({width:"200px"},"fast")})}(jQuery);
+!function(c){c(".show-search").on("click",function(n){c("input[type=search]").toggle().css("width","200")})}(jQuery);

diff --git a/themes/inhabitent-theme/js/scripts.js b/themes/inhabitent-theme/js/scripts.js
@@ -1,5 +1,5 @@
 (function( $ ) {
   $('.show-search').on('click', function(event){
-    $('input').toggle().css('width', '200');
+    $('input[type=search]').toggle().css('width', '200');
   });
 })( jQuery );

diff --git a/themes/inhabitent-theme/sass/_forms.scss b/themes/inhabitent-theme/sass/_forms.scss
@@ -25,7 +25,6 @@ input[type="text"],
 input[type="email"],
 input[type="url"],
 input[type="password"],
-input[type="search"],
 textarea {
 	background-color: $color_grey;
 	text-transform: none;

diff --git a/themes/inhabitent-theme/sass/style.scss b/themes/inhabitent-theme/sass/style.scss
@@ -71,3 +71,4 @@ Nicolas Gallagher and Jonathan Neal http://necolas.github.com/normalize.css/
 @import "media";
 @import "page-templates";
 @import "footer";
+@import "search";
